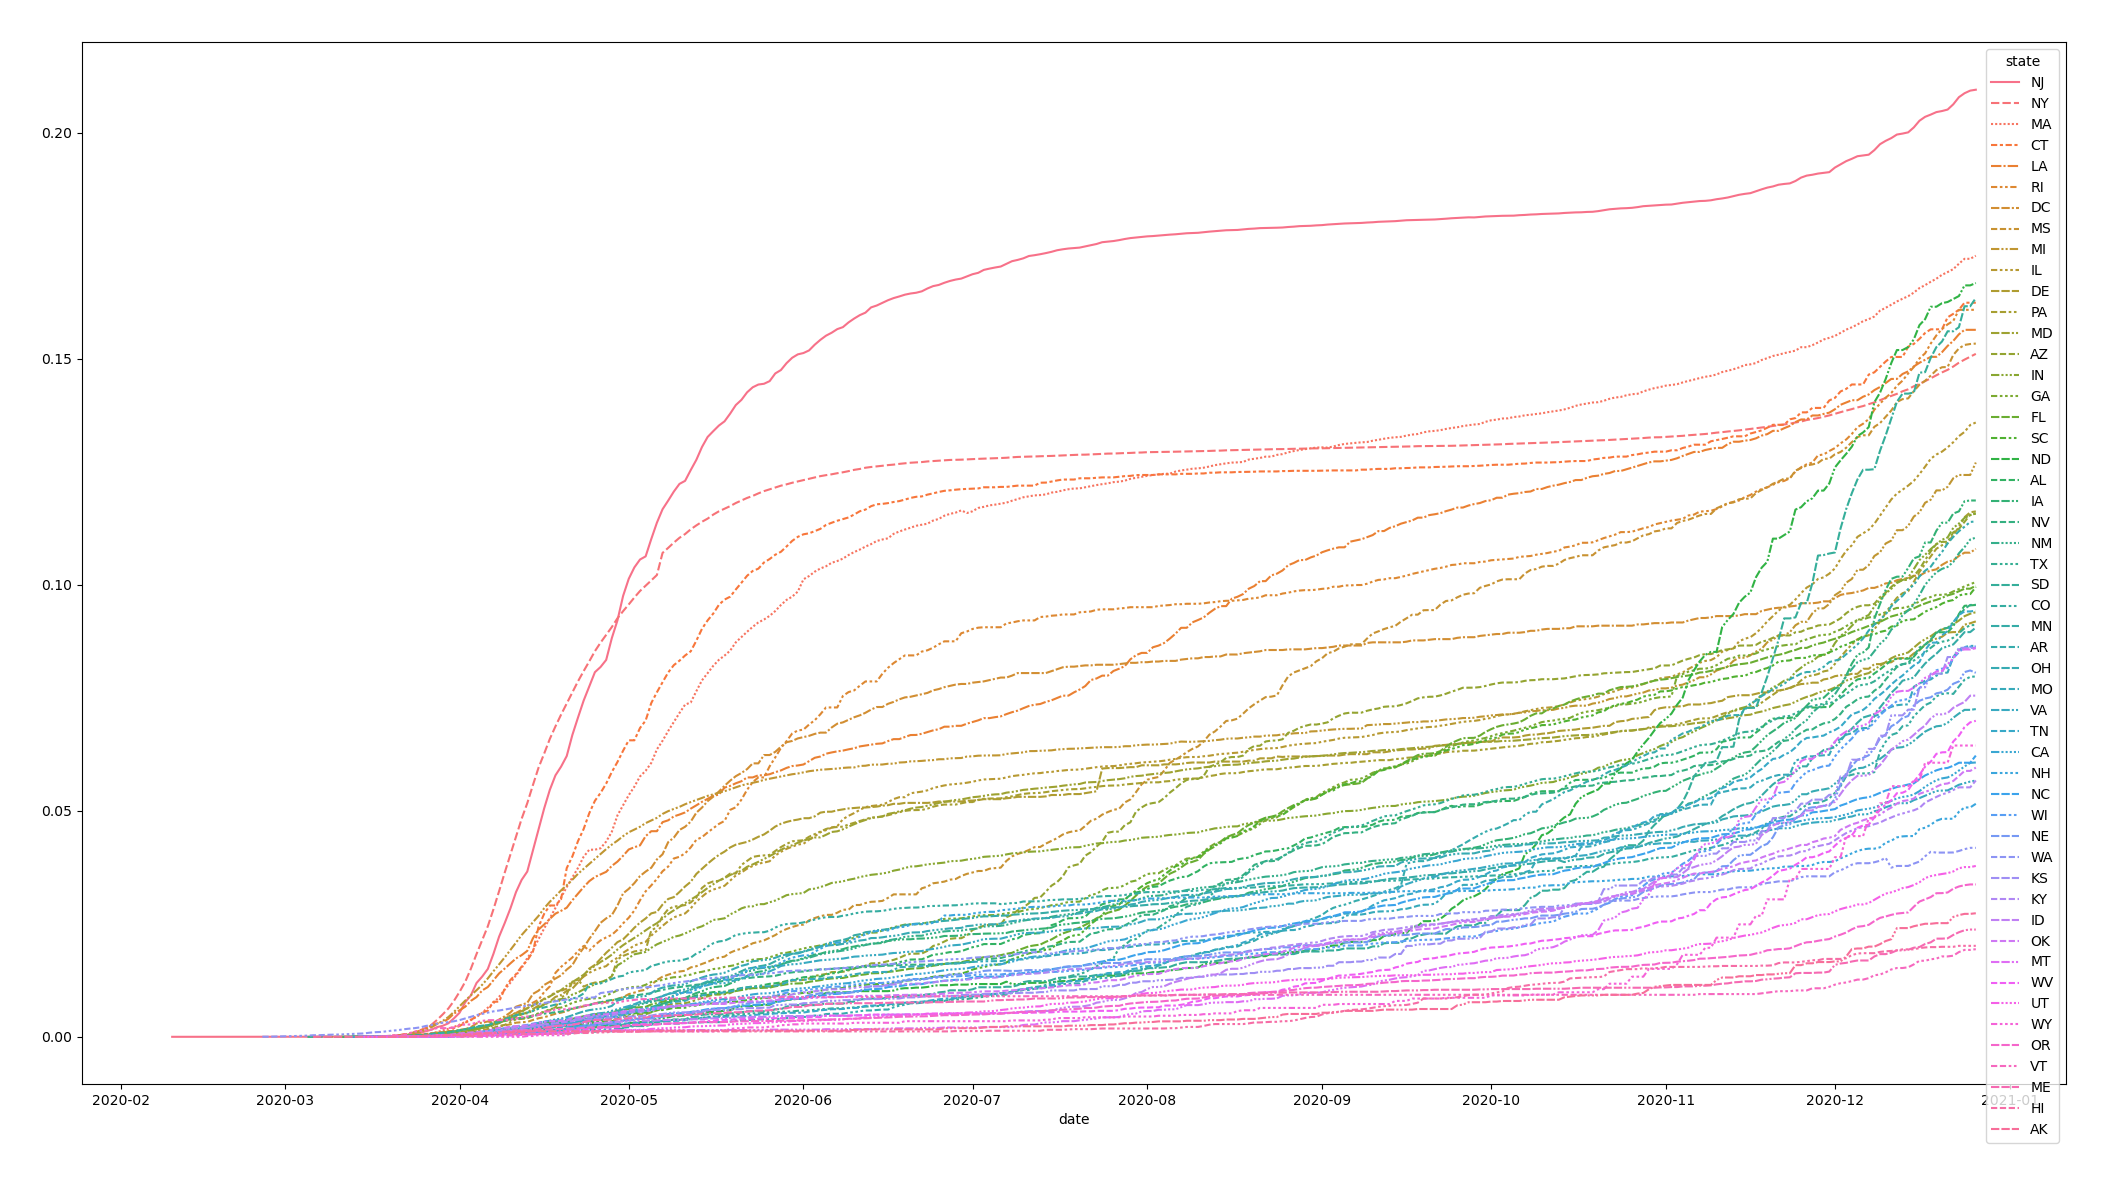
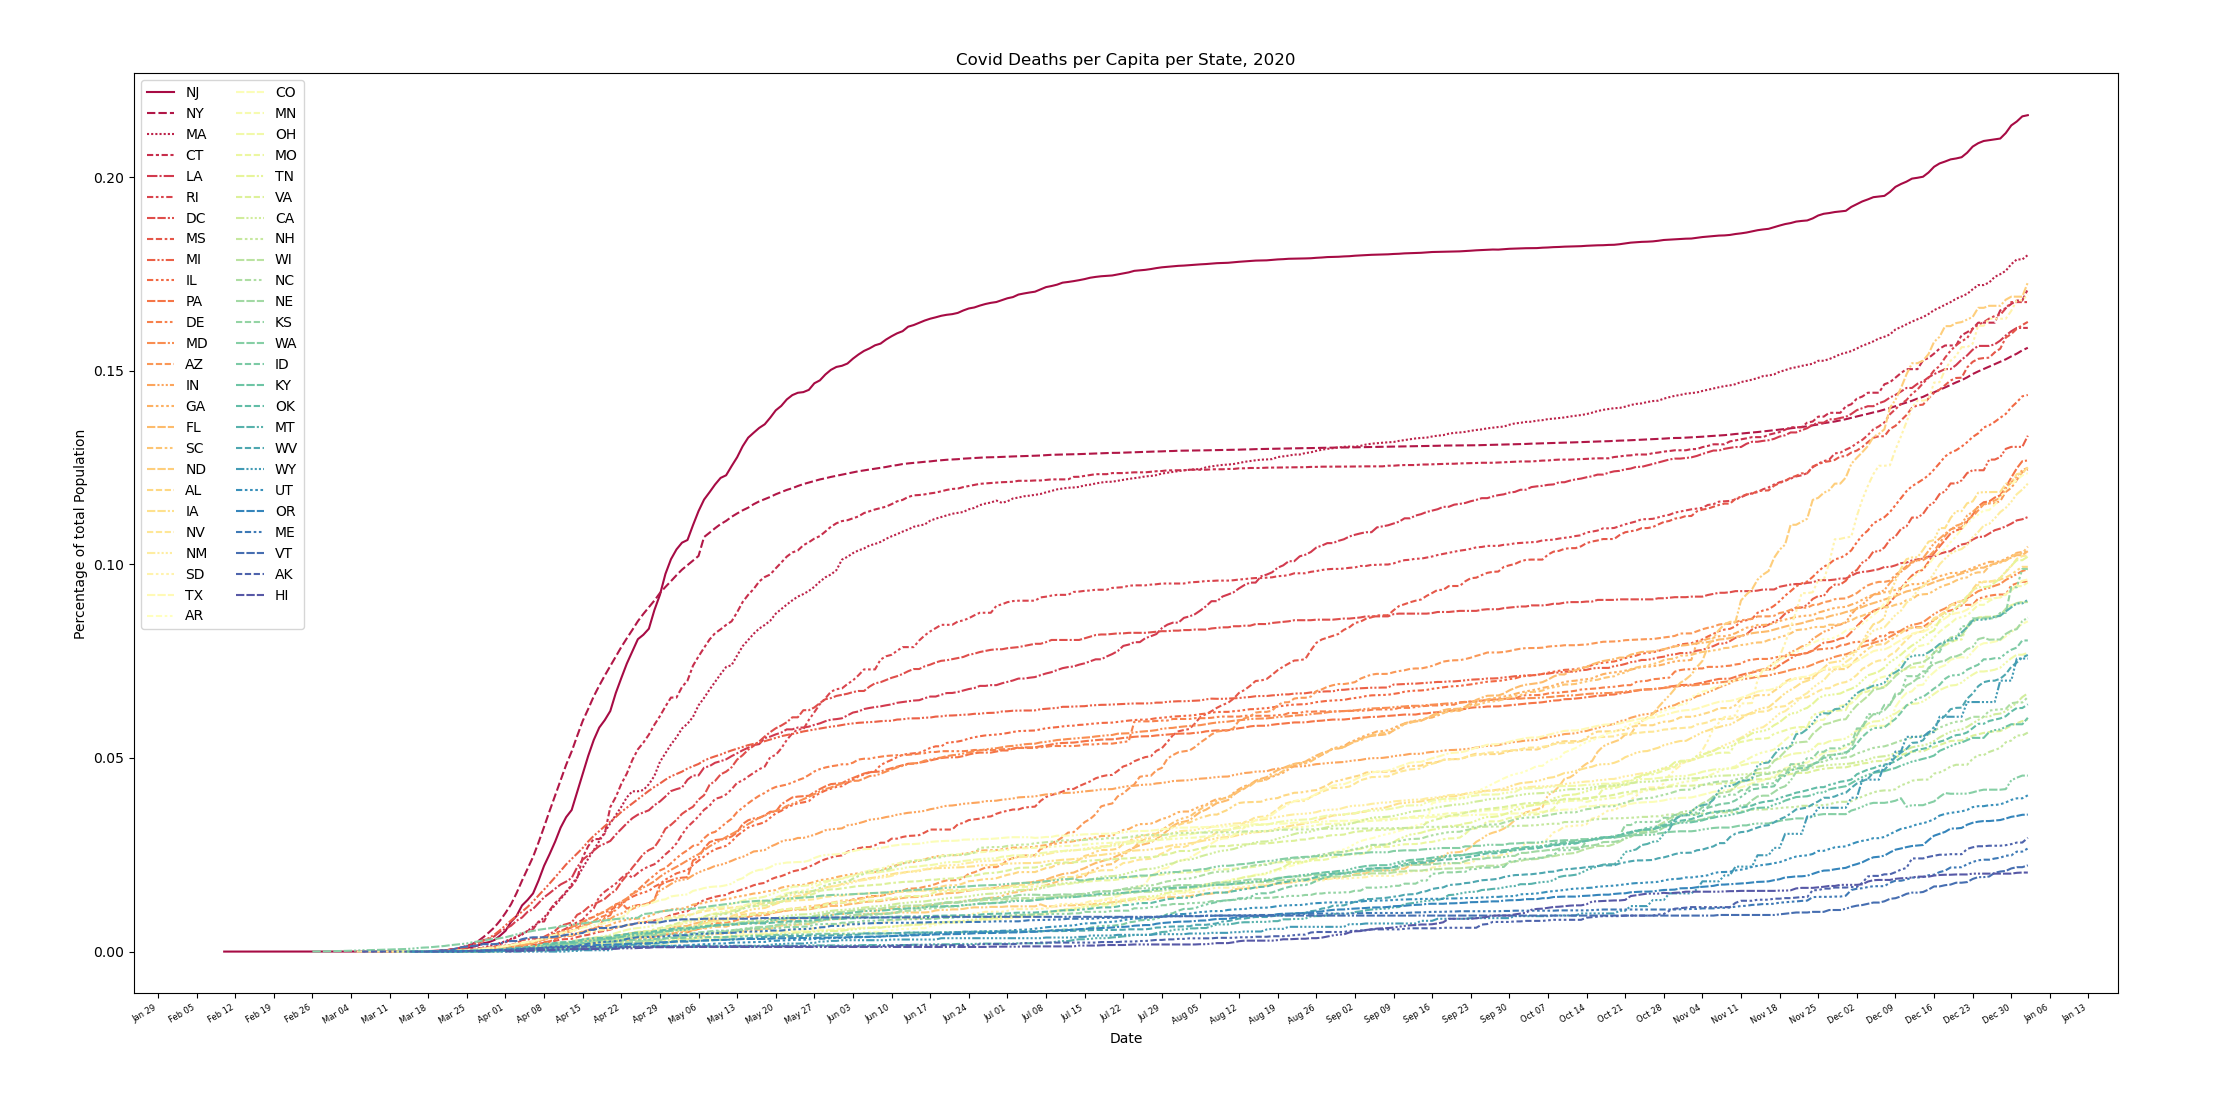
looking good

diff --git a/main.py b/main.py
@@ -1,4 +1,4 @@
-# -*- coding: utf-8 -*-
+#%% -*- coding: utf-8 -*-
 """
 Created on Tue Aug 11 13:23:38 2020
 @author: Robbie Cunningham
@@ -6,35 +6,49 @@ Created on Tue Aug 11 13:23:38 2020
 
 import matplotlib.pyplot as plt
 import pandas as pd
+import seaborn as sns
 pd.options.display.width = 180
-pd.options.display.max_columns = 30
+pd.options.display.max_columns = 60
 pd.options.display.max_rows = 100
+from matplotlib.dates import DateFormatter, DayLocator
 
-plt.gcf().clear()
+
 
 spop = pd.read_pickle('spop.pkl')
 pop = spop.to_dict()
+df = pd.read_json('https://covidtracking.com/api/states/daily')
+df.date = pd.to_datetime(df.date, format='%Y%m%d')
 #%%
 
+fig = plt.gcf()
+fig.clear()
+
+# scale = {'death':100,'positive':1}
+
+scale = {'positive':1}
+
+for metric in list(scale.keys()):
+    data = pd.merge(df[['date','state',metric]],df.groupby('state').death.sum().rename('total'),left_on = 'state', right_on = 'state').sort_values(by='total')
+    data = data.pivot('date','state',metric) #.dropna()
+    data = data[list(pop.keys())]
+    data = data.apply(lambda x: scale[metric]*x/pop[x.name])
+    data = data.assign(m=data.sum(axis=1)).sort_values('m').drop('m', axis=1)
+    data = data.append(data.sum().rename('sum')).sort_values('sum',axis=1,ascending=False).drop('sum')
+    ax = sns.lineplot(data=data, palette='Spectral')
+    ax.legend(ncol=2)
+    plt.title(f'Covid {metric.title()}s per Capita per State, 2020')
+    plt.ylabel('Percentage of total Population')
+    plt.xlabel('Date')
+    ax.xaxis.set_major_formatter(DateFormatter('%b %d'))
+    ax.xaxis.set_major_locator(DayLocator(interval=7))
+    plt.xticks(fontsize=6)
+    fig.autofmt_xdate()
+    
+    
 
 
-df = pd.read_json('https://covidtracking.com/api/states/daily')
-
-# states = ['OR', 'CA', 'NY']
-df = df[df.state.isin(list(pop.keys()))]
-df.date = pd.to_datetime(df.date, format='%Y%m%d')
-df.sort_values(by = 'date', inplace=True)
-df.set_index('date', drop=True, inplace=True)
-
-print(df.head())
-gb = df.groupby('state')
 
 
-
-for name,g in gb.__iter__():
-    (g.death.rename(name)/pop[name]).plot()
-plt.title('Covid Death Per Capita Per State')
-plt.legend()
 
 
 
